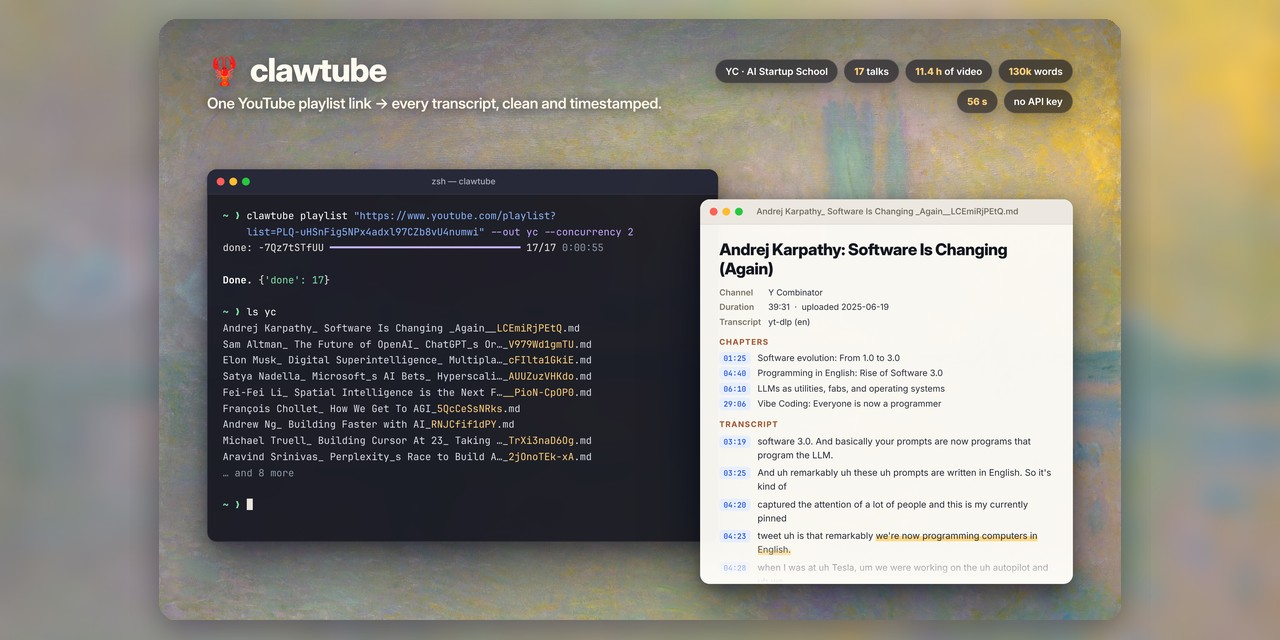
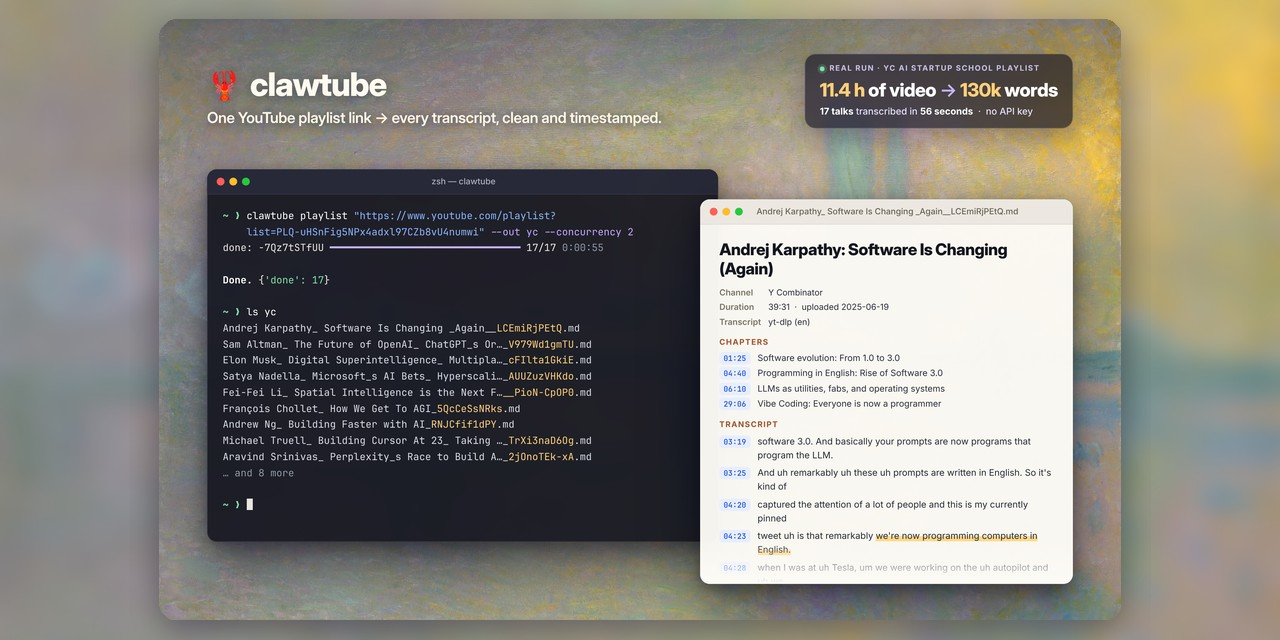
Demo: replace the stat chips with one self-explanatory card (#8)
* New demo: real run on YC's AI Startup School playlist

- assets/demo.jpg: 17 talks (Karpathy, Altman, Nadella, Fei-Fei Li, ...)
  -> 17 Markdown transcripts in 56 s, shown as the real terminal output
  next to the generated Karpathy transcript, over a procedurally
  painted abstract oil background.
- assets/social-preview.jpg (1280x640) for link previews.
- assets/demo-source/: the HTML and render script, so the image can be
  regenerated (fixed seed, identical output).
- Remove the old mock-up demo.svg.

Claude-Session: https://claude.ai/code/session_019dqvEzmGYEXG39LLMgkddL

* Demo background: Monet's Water Lilies (1906, public domain)

Replace the procedurally generated paint with Claude Monet's "Water
Lilies" (Art Institute of Chicago, CC0), for a calmer, real painting
behind the terminal and transcript. Credit added to the README.

Claude-Session: https://claude.ai/code/session_019dqvEzmGYEXG39LLMgkddL

* Calmer demo background: Monet's Charing Cross Bridge (1901)

Water Lilies was too busy behind the UI. Charing Cross Bridge, London
(Art Institute of Chicago, public domain/CC0) is a soft pastel haze with
no sharp detail. Lighter vignette so the colours stay luminous.

Claude-Session: https://claude.ai/code/session_019dqvEzmGYEXG39LLMgkddL

* Remove unused Water Lilies source image

Claude-Session: https://claude.ai/code/session_019dqvEzmGYEXG39LLMgkddL

* Demo: replace the stat chips with one self-explanatory card
[…]

Changed region(s): [[0.5625, 0.0625, 0.8438, 0.2188], [0.1562, 0.0938, 0.5312, 0.2188]]

diff --git a/assets/demo-source/demo.html b/assets/demo-source/demo.html
@@ -24,12 +24,19 @@
     color: #fffaf0; text-shadow: 0 4px 24px rgba(10,10,30,.45); }
   .tag { font: 600 25px/1.25 "Inter Display", Inter, sans-serif; color: #fff6e6;
     margin-top: 12px; text-shadow: 0 2px 16px rgba(10,10,30,.6); letter-spacing: -.3px; }
-  .chips { display: flex; gap: 10px; flex-wrap: wrap; justify-content: flex-end; max-width: 640px; }
-  .chip { padding: 11px 16px; border-radius: 999px; font: 600 16px/1 Inter, sans-serif;
-    background: rgba(18,18,30,.62); border: 1px solid rgba(255,255,255,.16);
-    backdrop-filter: blur(10px); color: #fff; white-space: nowrap;
-    box-shadow: 0 8px 24px rgba(0,0,0,.25); }
-  .chip b { color: var(--amber); font-weight: 800; }
+  .stat { padding: 18px 24px 17px; border-radius: 18px; text-align: left;
+    background: rgba(20,18,36,.66); border: 1px solid rgba(255,255,255,.16);
+    backdrop-filter: blur(14px); box-shadow: 0 14px 40px rgba(20,10,40,.28); }
+  .stat .k { font: 700 12.5px/1 Inter, sans-serif; letter-spacing: 1.6px; text-transform: uppercase;
+    color: #c9c2e6; display: flex; align-items: center; gap: 8px; }
+  .stat .k i { width: 8px; height: 8px; border-radius: 50%; background: #7ee2a8;
+    box-shadow: 0 0 0 4px rgba(126,226,168,.18); display: inline-block; }
+  .stat .v { font: 800 31px/1.15 "Inter Display", Inter, sans-serif; letter-spacing: -.6px;
+    color: #fff; margin: 11px 0 9px; white-space: nowrap; }
+  .stat .v em { font-style: normal; color: #ffcf7a; }
+  .stat .v .arr { color: #c4b5fd; margin: 0 6px; font-weight: 600; }
+  .stat .s { font: 500 15.5px/1.2 Inter, sans-serif; color: #e4def7; white-space: nowrap; }
+  .stat .s b { color: #fff; font-weight: 700; }
 
   /* windows */
   .win { position: absolute; border-radius: 16px; overflow: hidden;
@@ -94,14 +101,12 @@
     <div class="brand"><span class="logo">🦞</span><span class="name">clawtube</span></div>
     <div class="tag">One YouTube playlist link &rarr; every transcript, clean and timestamped.</div>
   </div>
-  <div class="chips">
-    <div class="chip">YC · AI Startup School</div>
-    <div class="chip"><b>17</b> talks</div>
-    <div class="chip"><b>11.4 h</b> of video</div>
-    <div class="chip"><b>130k</b> words</div>
-    <div class="chip"><b>56 s</b></div>
-    <div class="chip">no API key</div>
+  <div class="stat">
+    <div class="k"><i></i>Real run · YC AI Startup School playlist</div>
+    <div class="v"><em>11.4 h</em> of video<span class="arr">&rarr;</span><em>130k</em> words</div>
+    <div class="s"><b>17 talks</b> transcribed in <b>56 seconds</b> &nbsp;·&nbsp; no API key</div>
   </div>
+</div>
 </div>
 
 <div class="win term">
